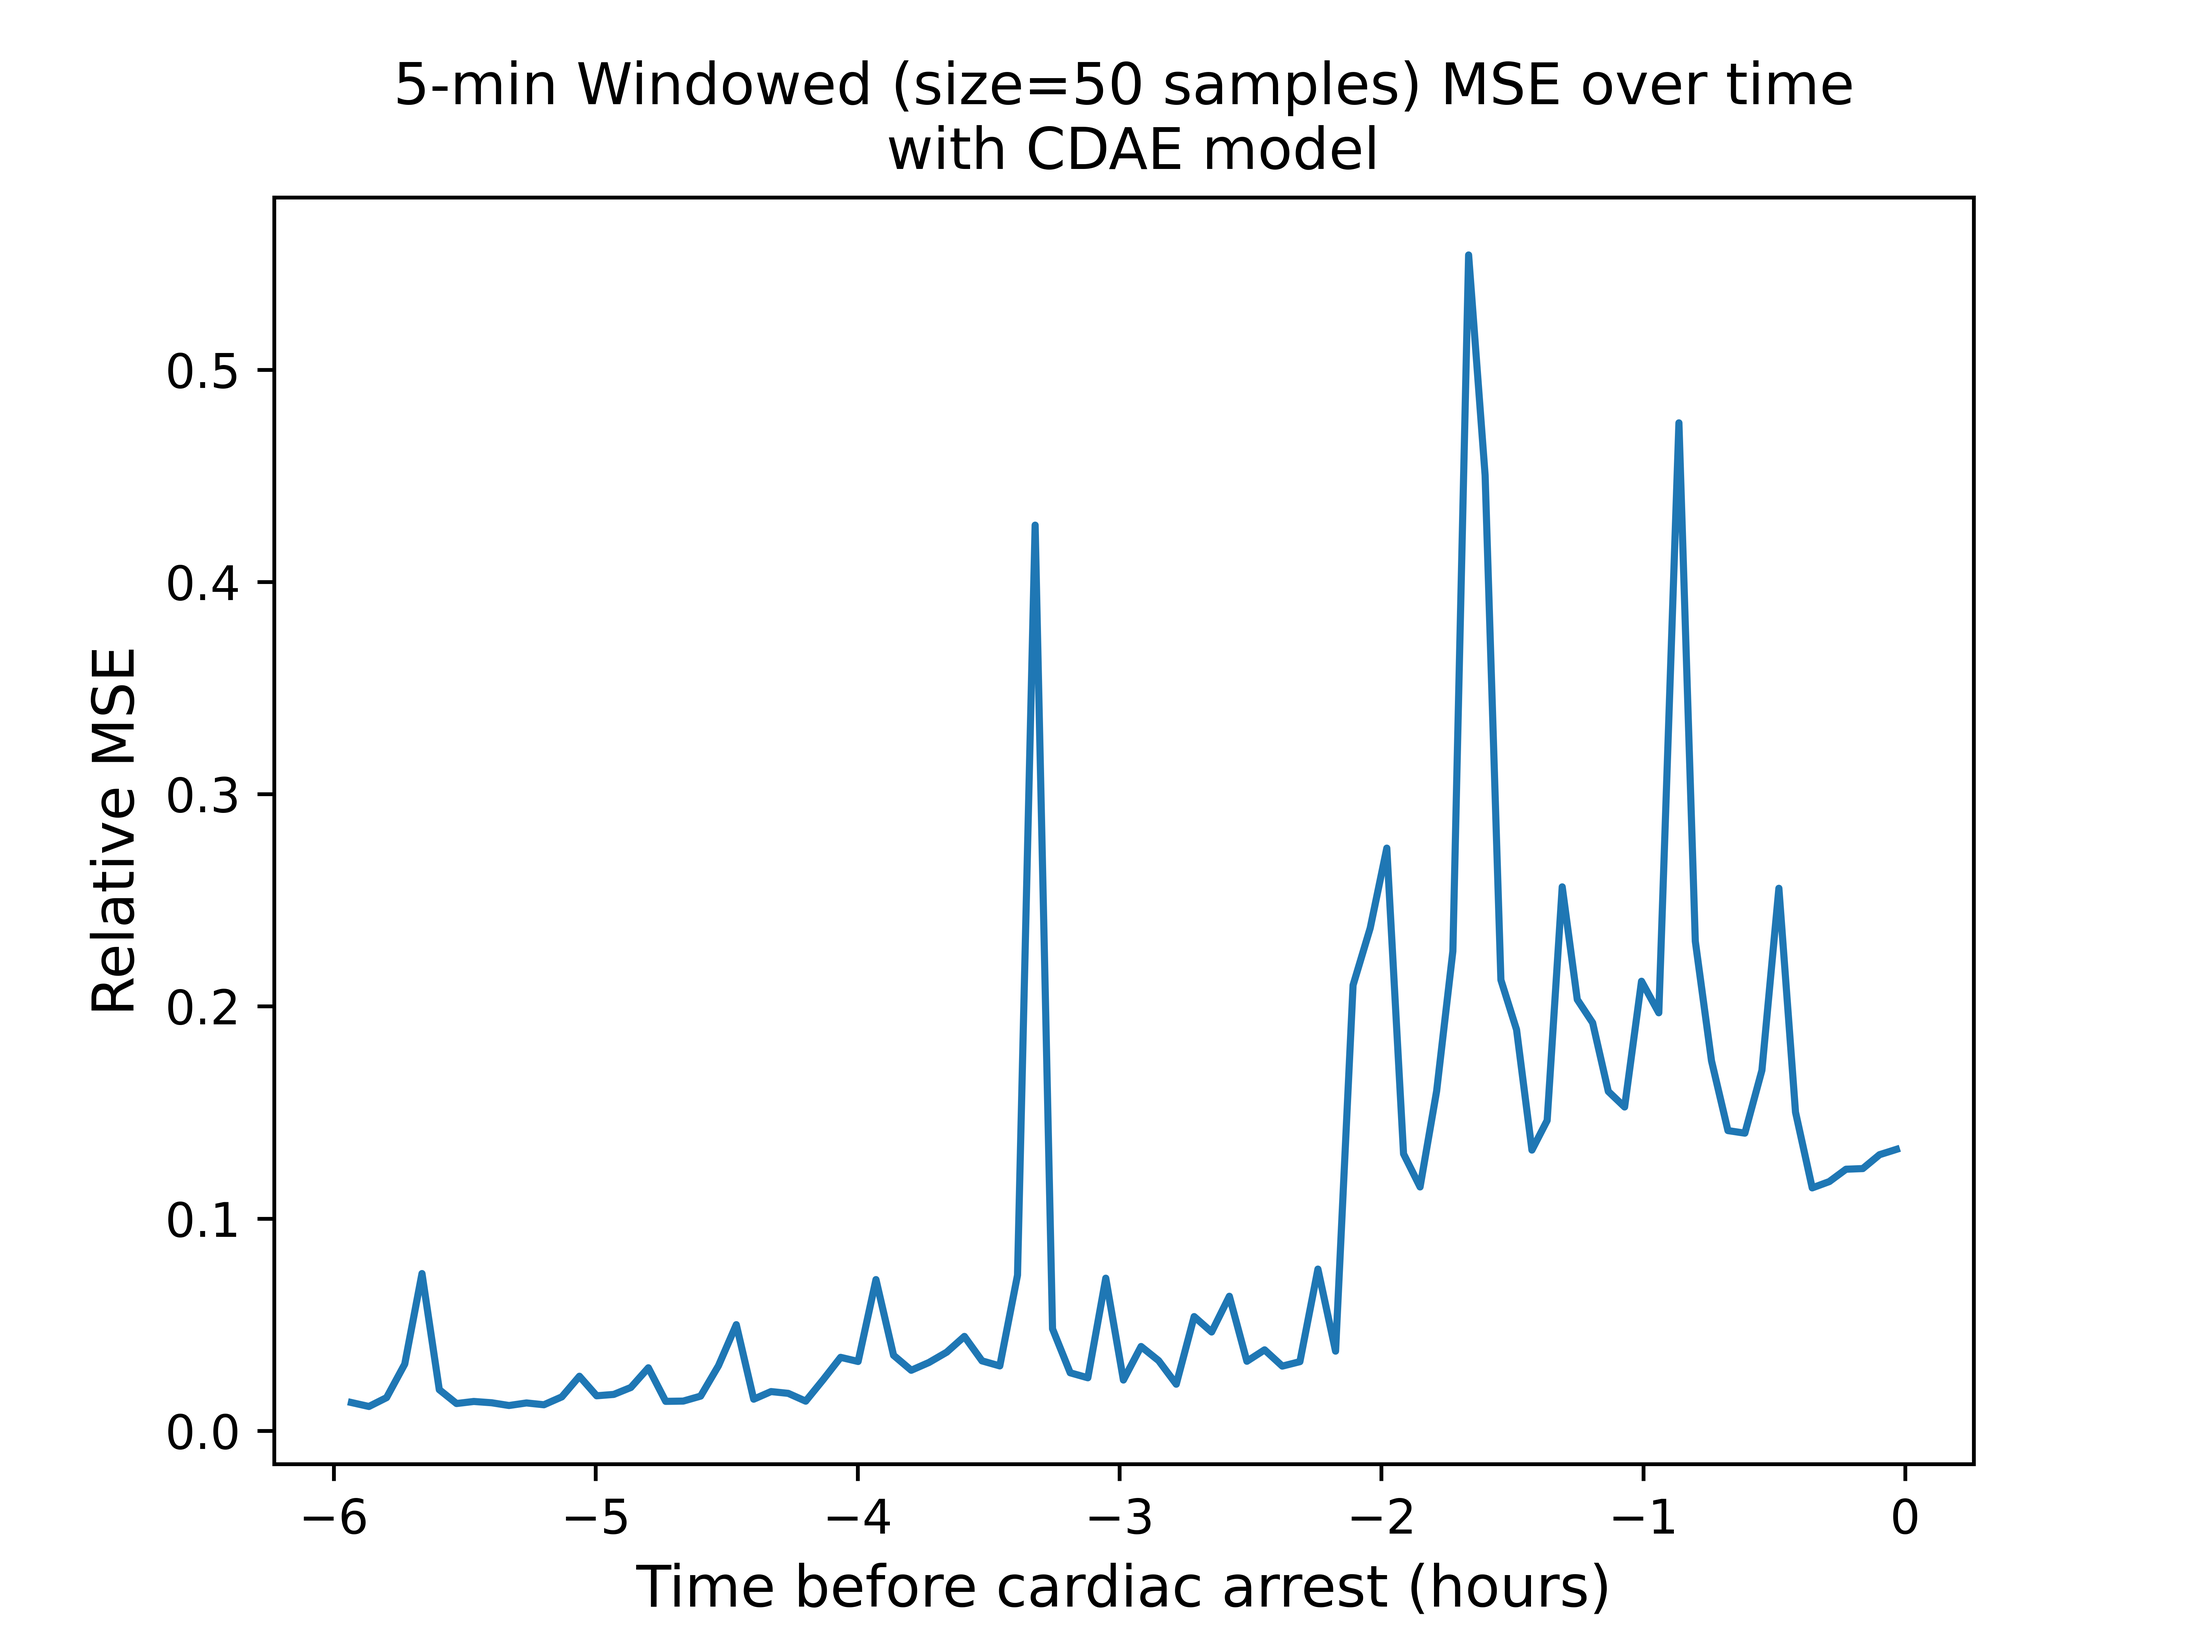
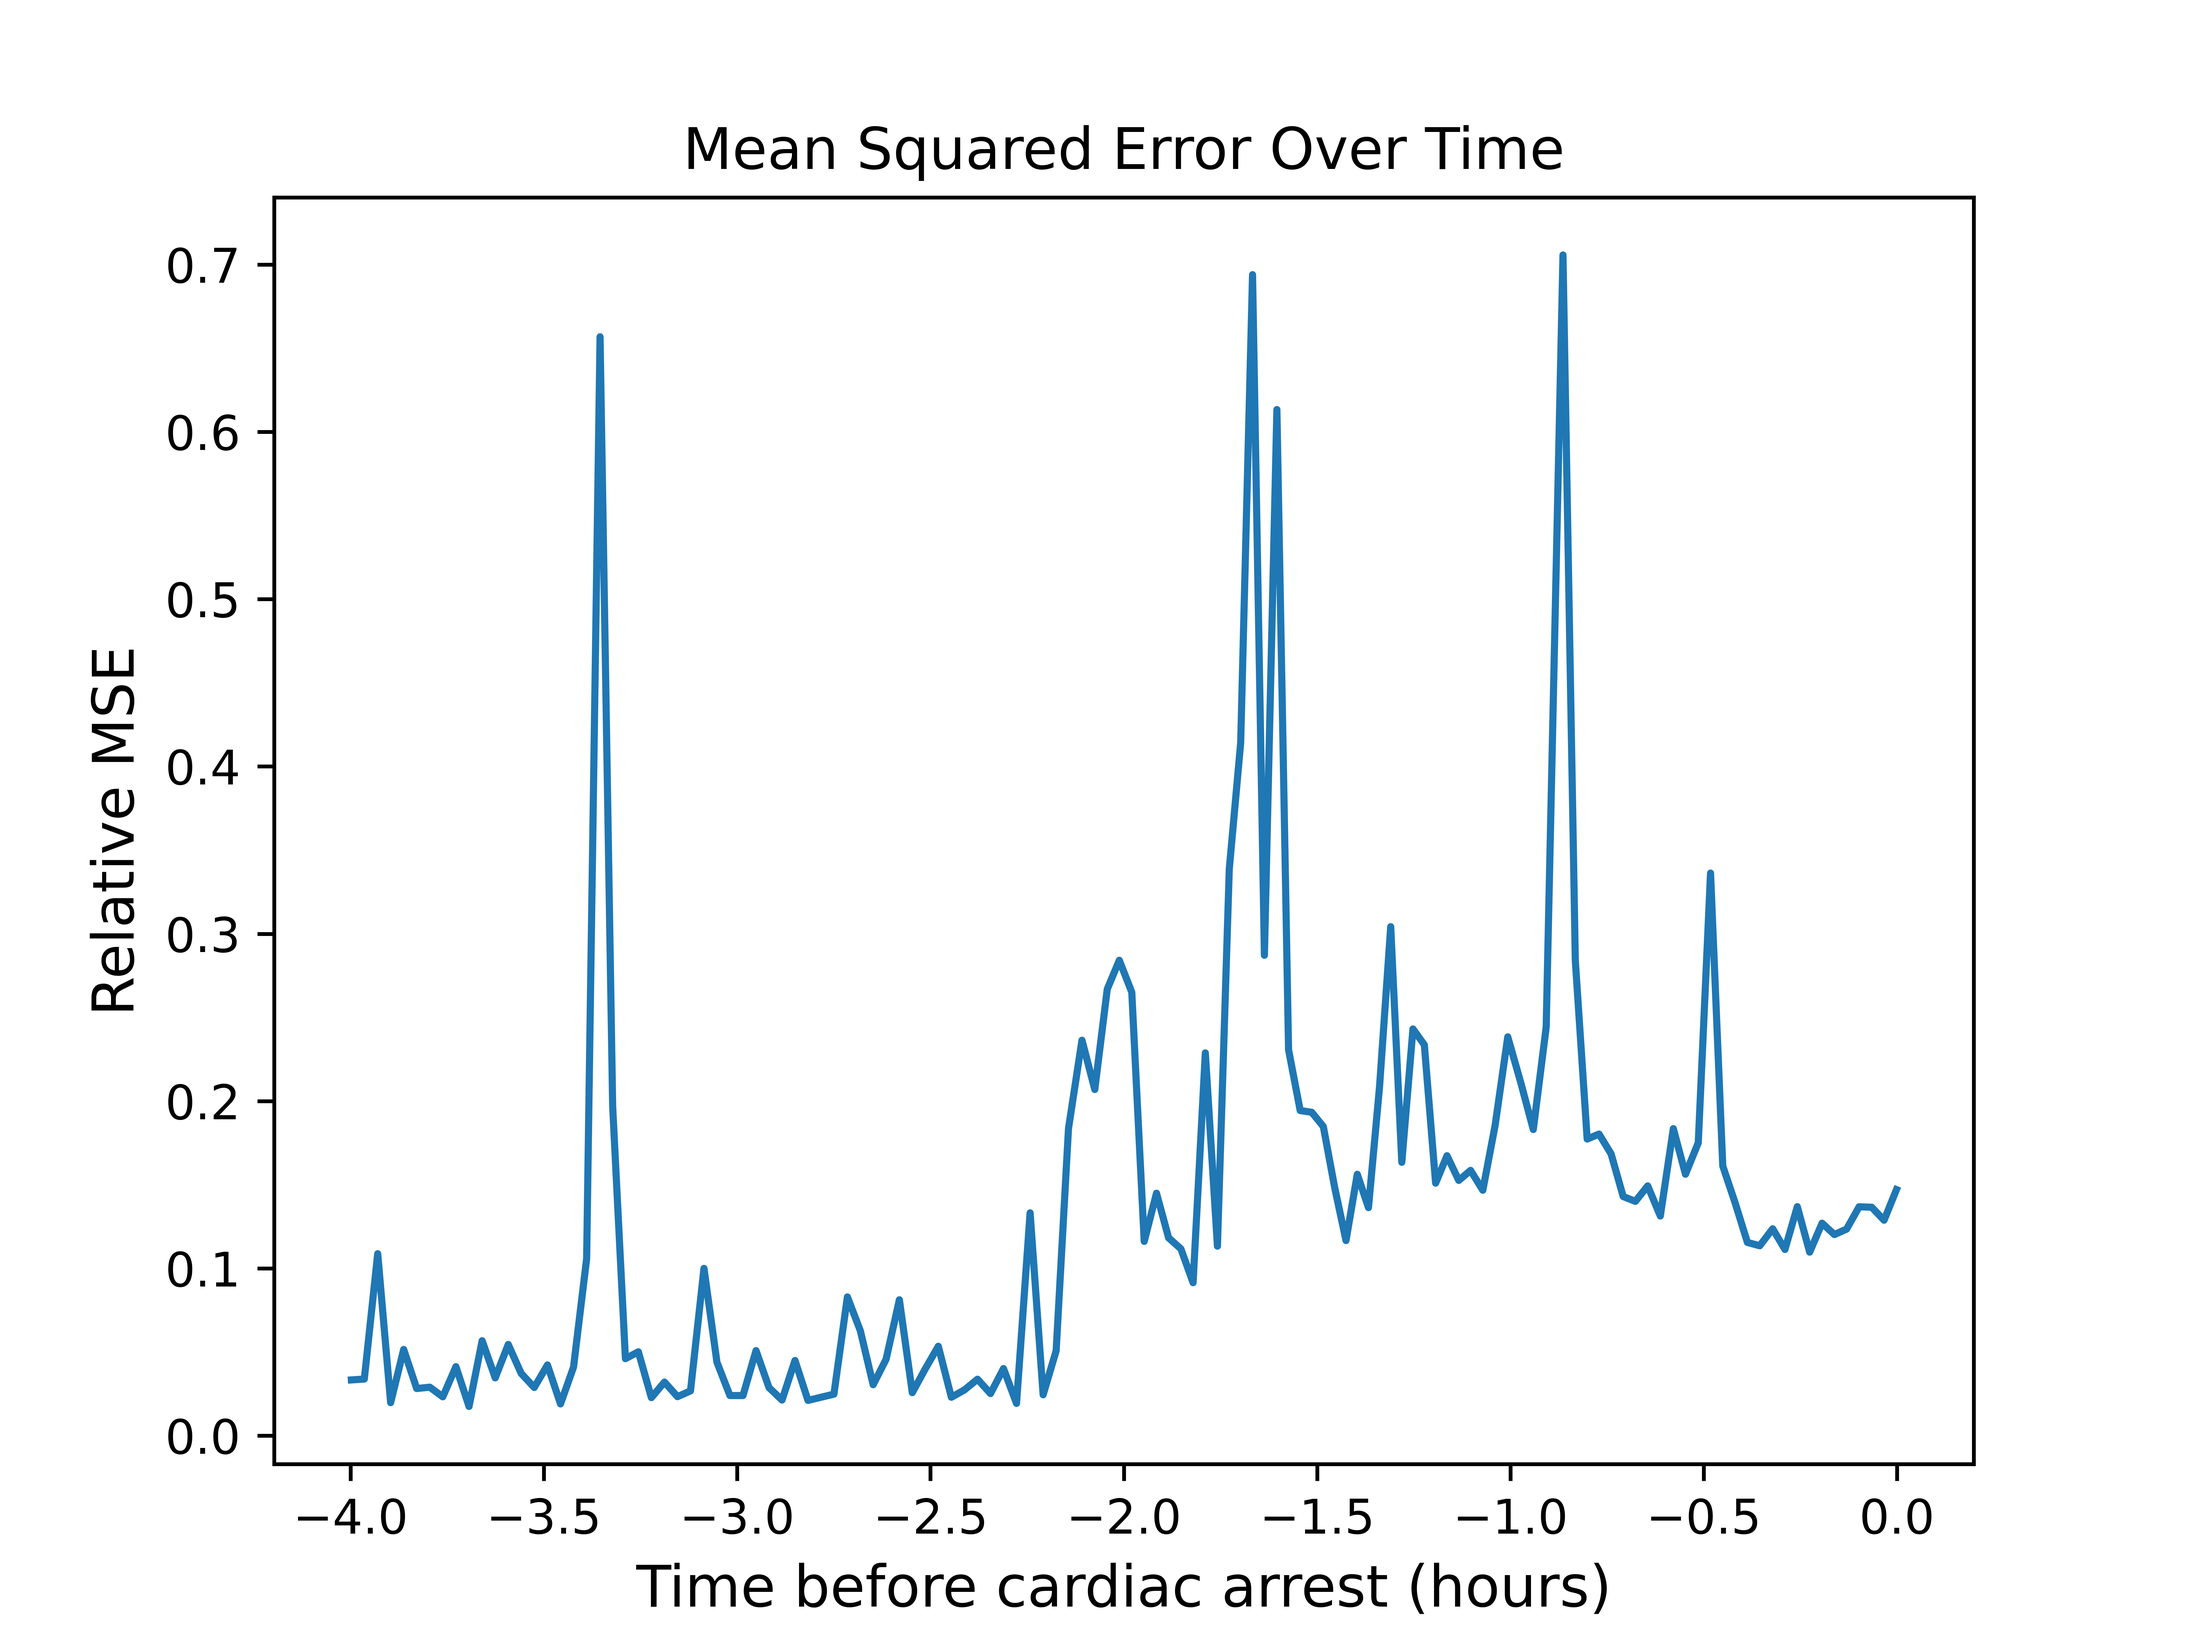
mean squared error plot updates

diff --git a/src/preprocess/dim_reduce/reduction_error.py b/src/preprocess/dim_reduce/reduction_error.py
@@ -179,7 +179,7 @@ def boxplot_error(model_name, dimension_num, show_outliers=True):
     The boxplots show distributions across all patients
     """
 
-    num_boxes = 12
+    num_boxes = 48
 
     combined_errors = [np.empty(0) for i in range(num_boxes)]
     for patient_num in heartbeat_split.indicies:
@@ -190,11 +190,12 @@ def boxplot_error(model_name, dimension_num, show_outliers=True):
 
 
     # 12 b/c 6 hours and 2 half-hour windows per hour
-    plt.boxplot(combined_errors, vert=True, positions=np.arange(-6, 0, 0.5), showfliers=show_outliers,
+    plt.boxplot(combined_errors, vert=True, positions=np.arange(-6, 0, 0.125), showfliers=show_outliers, widths=1/13,
                 medianprops=dict(color='red', linewidth=2.5), whiskerprops=dict(color='lightgrey'), capprops=dict(color='lightgrey'), boxprops=dict(color='lightgrey'))
     set_font_size()
     plt.title(f"Boxplots of Mean Squared Errors on Half-Hour Windows\n over all patients with {model_name.upper()} model")
     plt.xlabel("Window Start Time (Hour)")
+    plt.xticks(np.arange(-6, 1, 1), np.arange(-6, 1, 1))
     plt.ylabel("Mean Squared Error")
     plt.savefig(f"images/boxplot_mse.png", dpi=1000)
     plt.show()
@@ -220,7 +221,7 @@ def mse_over_time(patient_num, model_name, dimension_num, smooth=False):
     plt.show()
 
 
-def windowed_mse_over_time(patient_num, model_name, dimension_num, window_size):
+def windowed_mse_over_time(patient_num, model_name, dimension_num, window_size, last_four_hours=False):
     errors = mean_squared_error(dimension_num, model_name, patient_num, False)
 
     window_times = get_windowed_time(patient_num, num_hbs=10, window_size=window_size)
@@ -230,17 +231,50 @@ def windowed_mse_over_time(patient_num, model_name, dimension_num, window_size):
     for i in range(0, len(errors) - window_size, window_size):
         windowed_errors.append(np.mean(errors[i:i+window_size]))
 
+    if last_four_hours:
+        # finds the nearest point in time to four hours
+        def find_nearest(array, value):
+            array = np.asarray(array)
+            idx = (np.abs(array - value)).argmin()
+            return idx
+
+        start_idx = find_nearest(window_times, -4.0)
+        window_times = window_times[start_idx:]
+        windowed_errors = windowed_errors[start_idx:]
+
     set_font_size()
     plt.plot(window_times, windowed_errors)
-    plt.title("5-min Windowed (size={} samples) MSE over time\n with {} model".format(window_size, model_name.upper()))
+    # plt.title("5-min Windowed (size={} samples) MSE over time\n with {} model".format(window_size, model_name.upper()))
+    plt.title("Mean Squared Error Over Time")
     plt.xlabel("Time before cardiac arrest (hours)")
     plt.ylabel("Relative MSE")
     plt.savefig(f"images/windowed_mse_Idx{patient_num}.png", dpi=1000)
     plt.show()
-
-
     np.save(f"Working_Data/windowed_mse_{dimension_num}d_Idx{patient_num}.npy", windowed_errors)
 
+def raw_mse_over_time(patient_num, model_name, dimension_num, window_size, last_four_hours=False):
+    errors = mean_squared_error(dimension_num, model_name, patient_num, False)
+    window_times = get_windowed_time(patient_num, num_hbs=10, window_size=1)
+
+    if last_four_hours:
+        # finds the nearest point in time to four hours
+        def find_nearest(array, value):
+            array = np.asarray(array)
+            idx = (np.abs(array - value)).argmin()
+            return idx
+
+        start_idx = find_nearest(window_times, -4.0)
+        window_times = window_times[start_idx:]
+        windowed_errors = errors[start_idx:]
+
+    set_font_size()
+    plt.plot(window_times, windowed_errors)
+    plt.title("MSE over time\n with {} model".format(window_size, model_name.upper()))
+    plt.xlabel("Time before cardiac arrest (hours)")
+    plt.ylabel("Relative MSE")
+    plt.savefig(f"images/raw_mse_Idx{patient_num}.png", dpi=1000)
+    plt.show()
+    np.save(f"Working_Data/raw_mse_{dimension_num}d_Idx{patient_num}.npy", windowed_errors)
 
 if __name__ == "__main__":
 
@@ -261,7 +295,10 @@ if __name__ == "__main__":
     #     #     continue
     #     windowed_mse_over_time(patient, "ae", 10)
 
-    windowed_mse_over_time(16, "cdae", 100, 50)
+    # windowed_mse_over_time(16, "cdae", 100, 50)
+    windowed_mse_over_time(16, "cdae", 100, 25, last_four_hours=True)
+    # raw_mse_over_time(16, "cdae", 100, 50, last_four_hours=True)
+
     # boxplot_error("cdae", 100, False)
 
 
